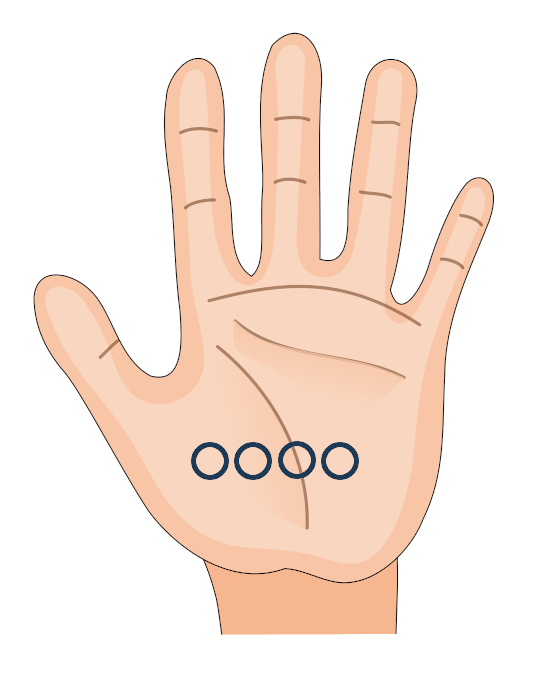
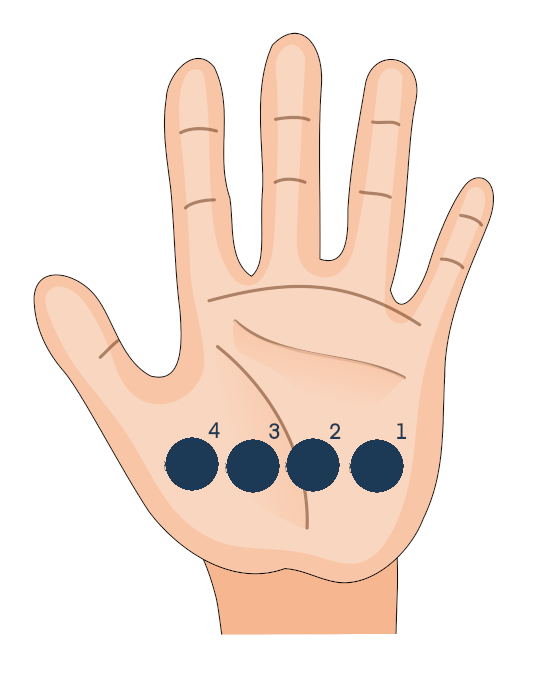
[NEW] animation

Changed region(s): [[0.2802, 0.6149, 0.7473, 0.7379]]

diff --git a/hglovesMvp/components/annimation/AnimatedDot.js b/hglovesMvp/components/annimation/AnimatedDot.js
@@ -32,7 +32,7 @@ export default class AnimatedDot extends Component  {
             // }),
             Animated.timing(this.state.animFade, {
                 toValue: 0,
-                duration: 400,
+                duration: 1000,
             }).start(this.animatedCallback)
         ])
     }
@@ -44,7 +44,7 @@ export default class AnimatedDot extends Component  {
                         transform: [{translateY: this.props.posY - this.radius / 2}, {translateX: this.props.posX - this.radius / 2}],
                         justifyContent: 'center',
                         alignItems: 'center',
-                        backgroundColor: 'grey',
+                        backgroundColor: '#1C3956',
                         borderRadius: 200,
                         width: this.radius,
                         height: this.radius,

diff --git a/hglovesMvp/components/main/HelpComponent.js b/hglovesMvp/components/main/HelpComponent.js
@@ -46,7 +46,6 @@ class HelpComponent extends React.Component {
             { image: require('../../assets/images/legend/2Touch.png'), description: 'Toucher 2x' },
             { image: require('../../assets/images/legend/4Touch.png'), description: 'Toucher 4x' },
             { image: require('../../assets/images/legend/arrow.png'), description: 'Appuyer avec l\'index dans le sens des flèches' },
-            { image: require('../../assets/images/legend/tamb.png'), description: 'Tambouriner' }
         ],
     }
 

diff --git a/hglovesMvp/components/exercise/ExerciseComponent.js b/hglovesMvp/components/exercise/ExerciseComponent.js
@@ -1,6 +1,6 @@
 import React from 'react';
 import { Dimensions } from 'react-native'
-import { StyleSheet, Text, View, Image, TextInput, TouchableOpacity } from 'react-native';
+import { StyleSheet, Text, View, Image } from 'react-native';
 import { IconButton, Button, Card } from 'react-native-paper';
 import MySound from '../common/MySound';
 import HandComponent from '../main/HandComponent';
